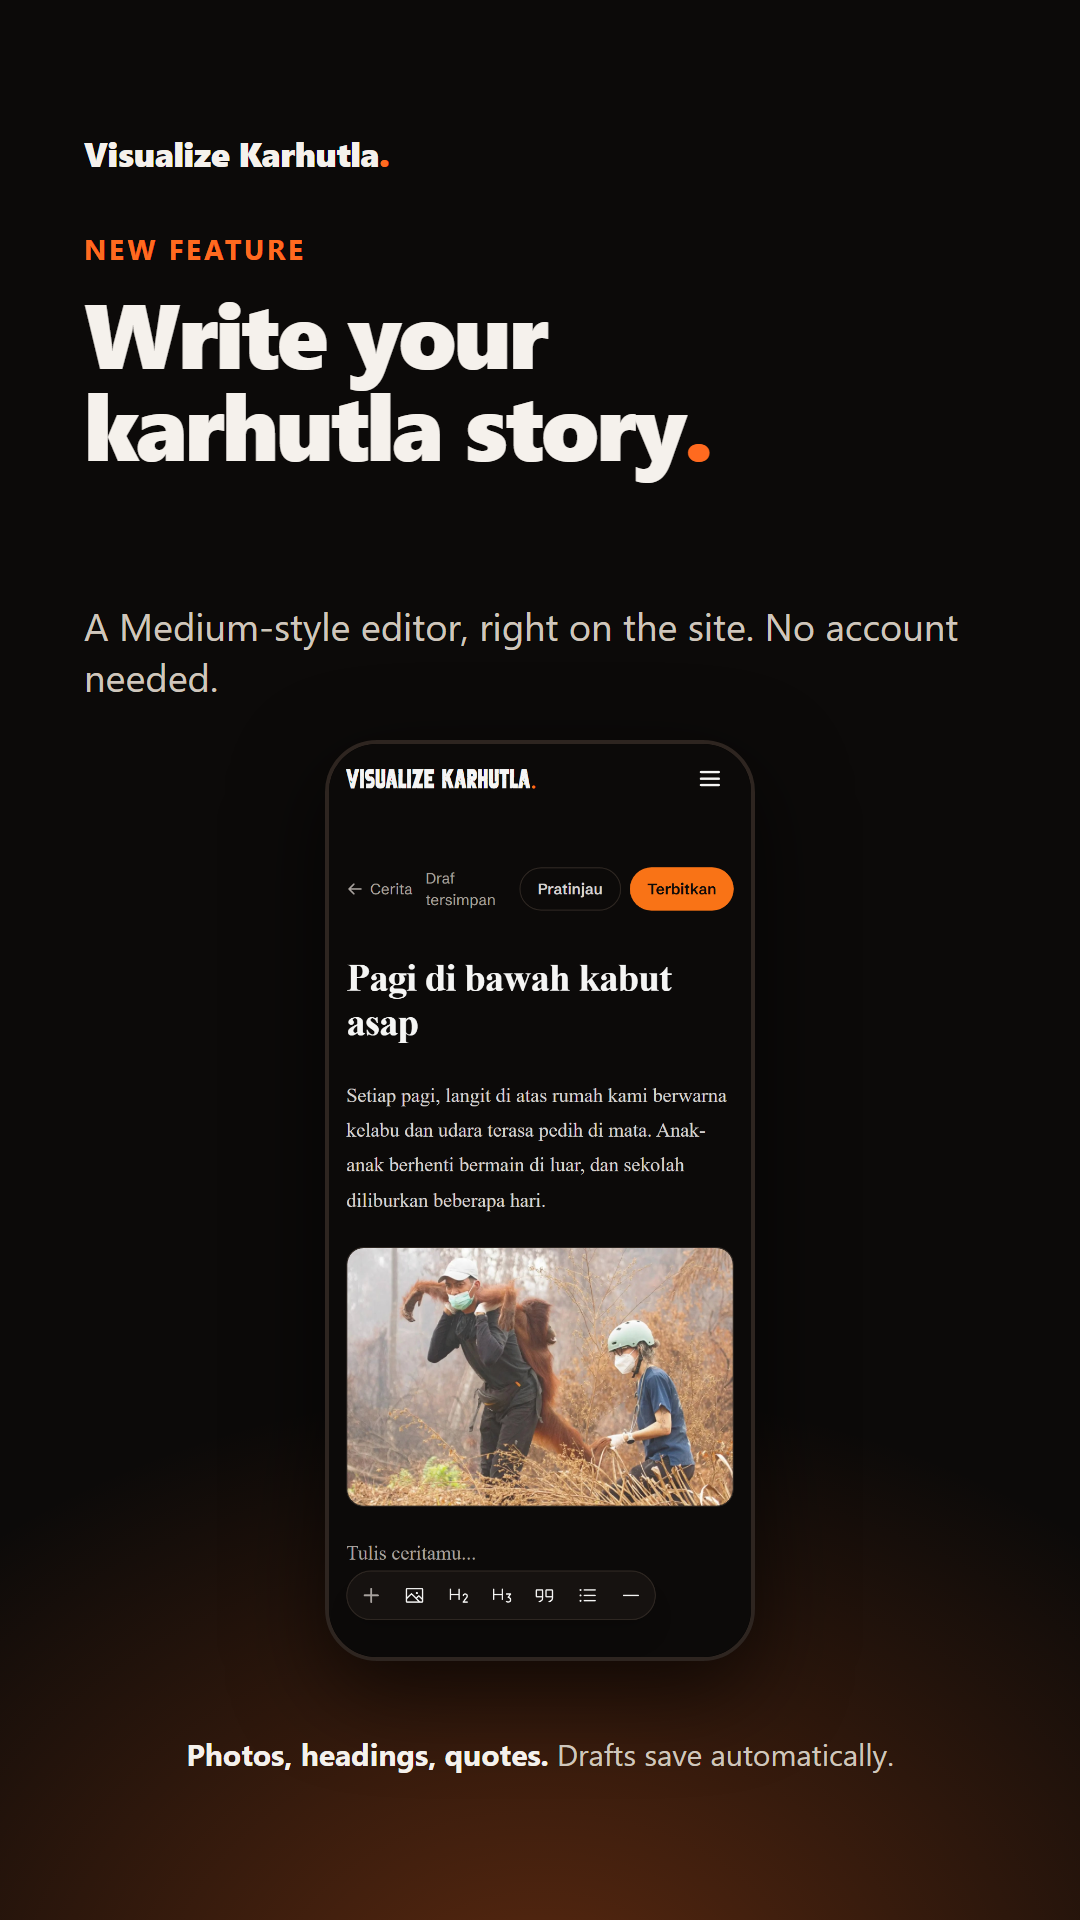
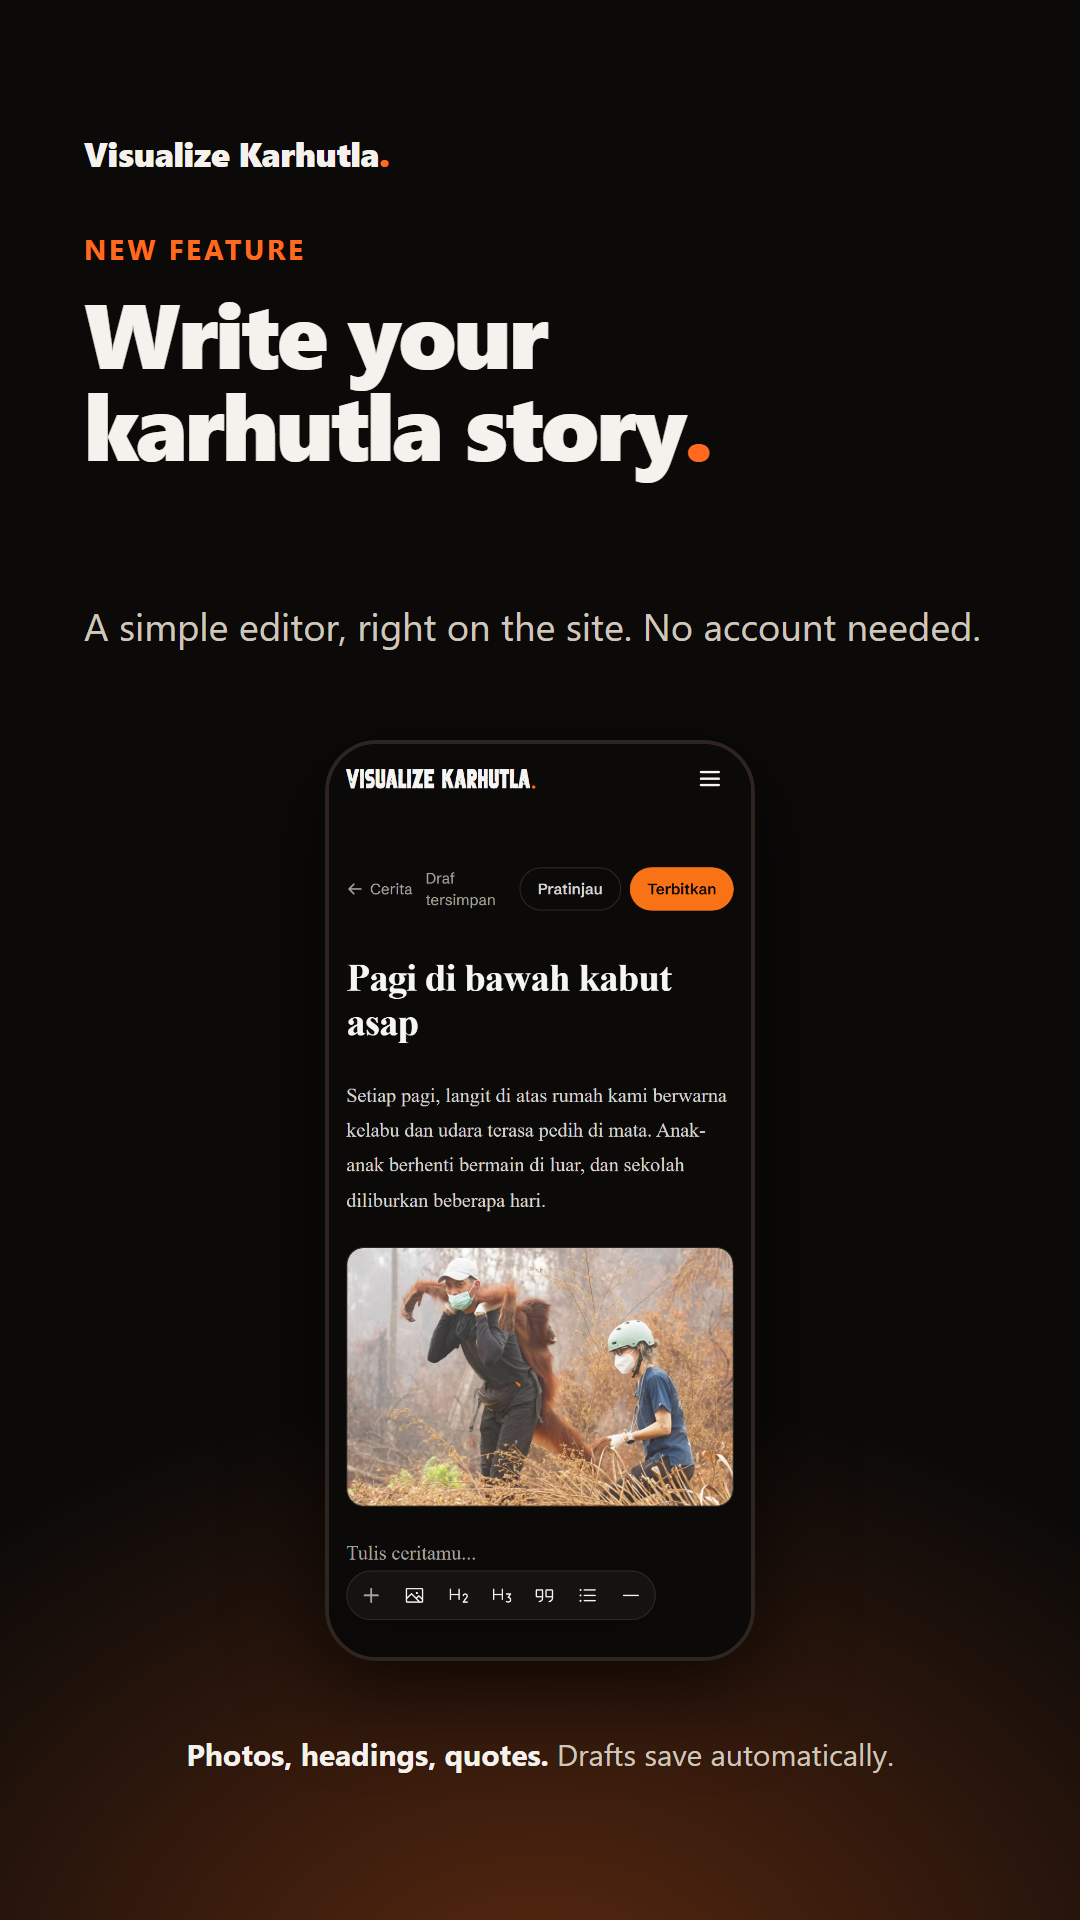
Hapus kata Medium dari materi promo, komentar kode, dan dokumentasi

Changed region(s): [[0.0917, 0.3125, 0.9167, 0.375]]

diff --git a/docs/promo-cerita/slides.html b/docs/promo-cerita/slides.html
@@ -16,7 +16,7 @@ h1{position:absolute;left:84px;right:84px;top:285px;font-size:92px;line-height:1
 </style></head><body><section class="slide"><div class="wm">Visualize Karhutla<i>.</i></div>
 <div class="k">New feature</div>
 <h1>Write your<br>karhutla story<i>.</i></h1>
-<p class="sub" style="top:600px">A Medium-style editor, right on the site. No account needed.</p>
+<p class="sub" style="top:600px">A simple editor, right on the site. No account needed.</p>
 <div class="phone" style="left:325px;top:740px;width:430px"><img src="img/p-editor.png" alt=""></div>
 <p class="cap" style="left:84px;right:84px;top:1735px"><b>Photos, headings, quotes.</b> Drafts save automatically.</p>
 </section><section class="slide"><div class="wm">Visualize Karhutla<i>.</i></div>
@@ -24,7 +24,7 @@ h1{position:absolute;left:84px;right:84px;top:285px;font-size:92px;line-height:1
 <h1>Pick topics.<br>Make it yours<i>.</i></h1>
 <div class="phone" style="left:84px;top:640px;width:430px"><img src="img/p-form-topik.png" alt=""></div>
 <div class="phone" style="left:566px;top:640px;width:430px"><img src="img/p-form-penulis.png" alt=""></div>
-<p class="cap" style="left:84px;width:430px;top:1580px"><b>Choose or create topics</b>, just like Medium.</p>
+<p class="cap" style="left:84px;width:430px;top:1580px"><b>Choose or create topics</b> to label your story.</p>
 <p class="cap" style="left:566px;width:430px;top:1580px"><b>Add your link and photo</b> (optional). Skip it and get a random animal avatar.</p>
 </section><section class="slide"><div class="wm">Visualize Karhutla<i>.</i></div>
 <div class="k">Then what?</div>

diff --git a/src/routes/CeritaTulis.tsx b/src/routes/CeritaTulis.tsx
@@ -143,7 +143,7 @@ export default function CeritaTulis() {
     selector: ({ editor: e }) => ({ bold: !!e?.isActive('bold'), italic: !!e?.isActive('italic'), link: !!e?.isActive('link'), h2: !!e?.isActive('heading', { level: 2 }), quote: !!e?.isActive('blockquote') }),
   })
 
-  // simpan draf otomatis (seperti Medium); gambar ikut tersimpan sebagai data URL selama kuota peramban cukup
+  // simpan draf otomatis; gambar ikut tersimpan sebagai data URL selama kuota peramban cukup
   const save = useCallback(() => {
     if (!editor) return
     setSaved('menyimpan')

diff --git a/src/components/TopikPicker.tsx b/src/components/TopikPicker.tsx
@@ -3,7 +3,7 @@ import { useId, useMemo, useState } from 'react'
 import { MAKS_TOPIK } from '../content/topik'
 import { normTopik, semuaTopik, slugTopik } from '../lib/cerita'
 
-/** Pemilih topik seperti di Medium: pilih dari topik yang sudah ada atau buat topik baru. */
+/** Pemilih topik: pilih dari topik yang sudah ada atau buat topik baru. */
 export function TopikPicker({ value, onChange }: { value: string[]; onChange: (v: string[]) => void }) {
   const [q, setQ] = useState('')
   const listId = useId()

diff --git a/src/lib/cerita.ts b/src/lib/cerita.ts
@@ -1,7 +1,7 @@
 import { TOPIK_BAWAAN } from '../content/topik'
 import { resolveUrl } from './markdown'
 
-/** Cerita karhutla: tulisan warga, peneliti, dan masyarakat. Setiap cerita adalah satu berkas Markdown di src/content/cerita/, dikelompokkan dengan topik (seperti di Medium). */
+/** Cerita karhutla: tulisan warga, peneliti, dan masyarakat. Setiap cerita adalah satu berkas Markdown di src/content/cerita/, dikelompokkan dengan topik. */
 
 export interface Cerita {
   slug: string

diff --git a/src/content/topik.ts b/src/content/topik.ts
@@ -1,4 +1,4 @@
-/** Topik bawaan Cerita karhutla. Penulis dapat memilih dari daftar ini atau membuat topik sendiri (seperti topik di Medium). */
+/** Topik bawaan Cerita karhutla. Penulis dapat memilih dari daftar ini atau membuat topik sendiri. */
 export const TOPIK_BAWAAN = [
   'Kesehatan dan asap',
   'Lahan gambut',

diff --git a/docs/CERITA.md b/docs/CERITA.md
@@ -1,6 +1,6 @@
 # Cerita karhutla
 
-Halaman `/cerita` memuat tulisan warga, peneliti, dan masyarakat tentang karhutla: artikel ilmiah, cerita warga terdampak, opini, dan lainnya. Tulisan dikelompokkan dengan **topik** (seperti Medium): penulis memilih dari topik bawaan (`src/content/topik.ts`, misalnya Kesehatan dan asap, Lahan gambut, Satwa liar, Kebijakan dan hukum) atau membuat topik sendiri, hingga 5 topik per tulisan.
+Halaman `/cerita` memuat tulisan warga, peneliti, dan masyarakat tentang karhutla: artikel ilmiah, cerita warga terdampak, opini, dan lainnya. Tulisan dikelompokkan dengan **topik**: penulis memilih dari topik bawaan (`src/content/topik.ts`, misalnya Kesehatan dan asap, Lahan gambut, Satwa liar, Kebijakan dan hukum) atau membuat topik sendiri, hingga 5 topik per tulisan.
 
 Setiap tulisan adalah satu berkas Markdown di `src/content/cerita/<slug>.md`. Slug berkas menjadi alamat `/cerita/<slug>`.
 
@@ -32,7 +32,7 @@ Catatan:
 
 ## Alur kiriman
 
-Penulis menulis langsung di situs: `/cerita/tulis` (tanpa akun). Penyunting bergaya Medium: judul, blok teks, tombol + untuk gambar, judul bagian, kutipan, daftar, pemisah; menu format saat teks diblok; draf tersimpan otomatis. Di bagian "Sebelum terbit" penulis memilih topik, mengisi nama, tautan portofolio atau media sosial (opsional), dan memilih avatar atau mengunggah foto profil (opsional). Saat dikirim, Worker (`POST /api/cerita`) menyimpan gambar ke repositori unggahan dan membuat isu `[Cerita] ...` berlabel `cerita` di repositori utama.
+Penulis menulis langsung di situs: `/cerita/tulis` (tanpa akun). Penyunting tulisan: judul, blok teks, tombol + untuk gambar, judul bagian, kutipan, daftar, pemisah; menu format saat teks diblok; draf tersimpan otomatis. Di bagian "Sebelum terbit" penulis memilih topik, mengisi nama, tautan portofolio atau media sosial (opsional), dan memilih avatar atau mengunggah foto profil (opsional). Saat dikirim, Worker (`POST /api/cerita`) menyimpan gambar ke repositori unggahan dan membuat isu `[Cerita] ...` berlabel `cerita` di repositori utama.
 
 ### Menyetujui
 

diff --git a/CONTRIBUTING.md b/CONTRIBUTING.md
@@ -12,7 +12,7 @@ Gunakan formulir pada tab **Issues** repositori: kirim artikel, sumbang data, la
 - **Data**: harus disertai sumber yang dapat diperiksa, periode, dan satuan. Data luas lahan terbakar tingkat provinsi/kabupaten ditambahkan ke `data/sipongi.json`.
 - **Karya visual**: ilustrator, fotografer, dan desainer dapat mengunggah gambar (ukuran bebas) lewat formulir "Kirim templat", atau mengirim lewat DM Threads @harrierosss bagi yang tidak memakai GitHub (karya dari DM ditambahkan manual oleh pemelihara). Setelah ditinjau, pemelihara memasang label `setujui-templat`; alur `.github/workflows/approve-template.yml` lalu mengoptimalkan gambar, menambahkannya ke `src/assets/community/` dan `src/content/communityTemplates.json`, serta memicu deploy. Persiapan satu kali: buat label `setujui-templat` dan `templat` pada repositori.
 - **Karya visual lewat situs**: setelah Worker dan Turnstile dipasang (lihat `worker/README.md`), pengunjung dapat mengirim karya tanpa akun GitHub; isu `templat` dibuat otomatis atas nama pemelihara dan tetap melalui persetujuan label `setujui-templat`.
-- **Cerita karhutla**: tulis langsung di situs (`/cerita/tulis`, tanpa akun) dengan penyunting bergaya Medium dan topik pilihan atau buatan sendiri. Setelah ditinjau, pemelihara memasang label `setujui-cerita` dan tulisan terbit otomatis (lihat `docs/CERITA.md`).
+- **Cerita karhutla**: tulis langsung di situs (`/cerita/tulis`, tanpa akun) dengan penyunting tulisan dan topik pilihan atau buatan sendiri. Setelah ditinjau, pemelihara memasang label `setujui-cerita` dan tulisan terbit otomatis (lihat `docs/CERITA.md`).
 
 ## Mengirim perbaikan kode
 
